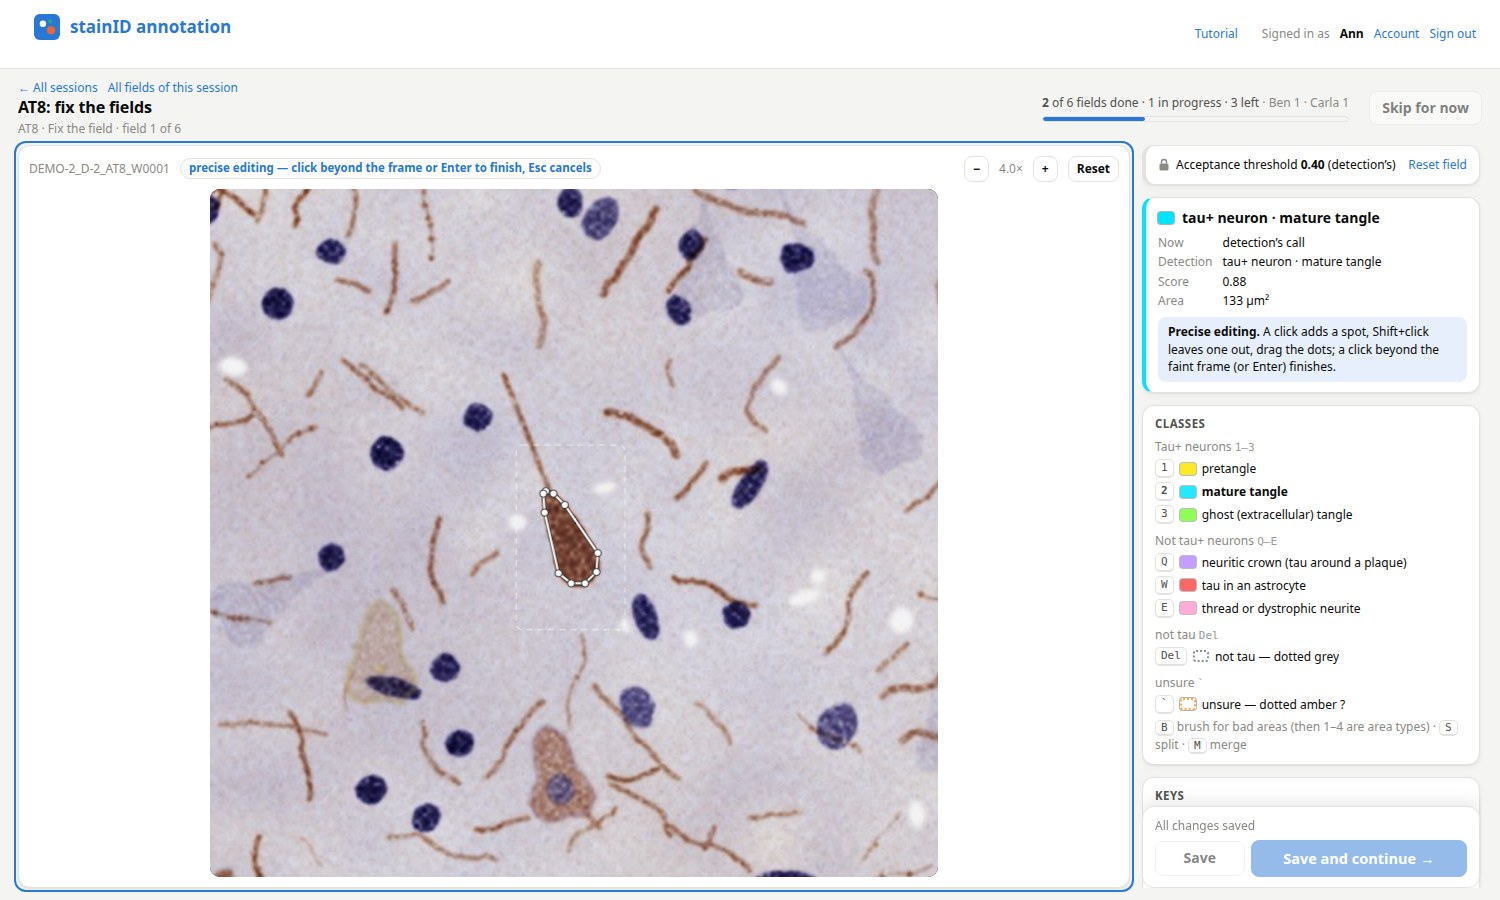
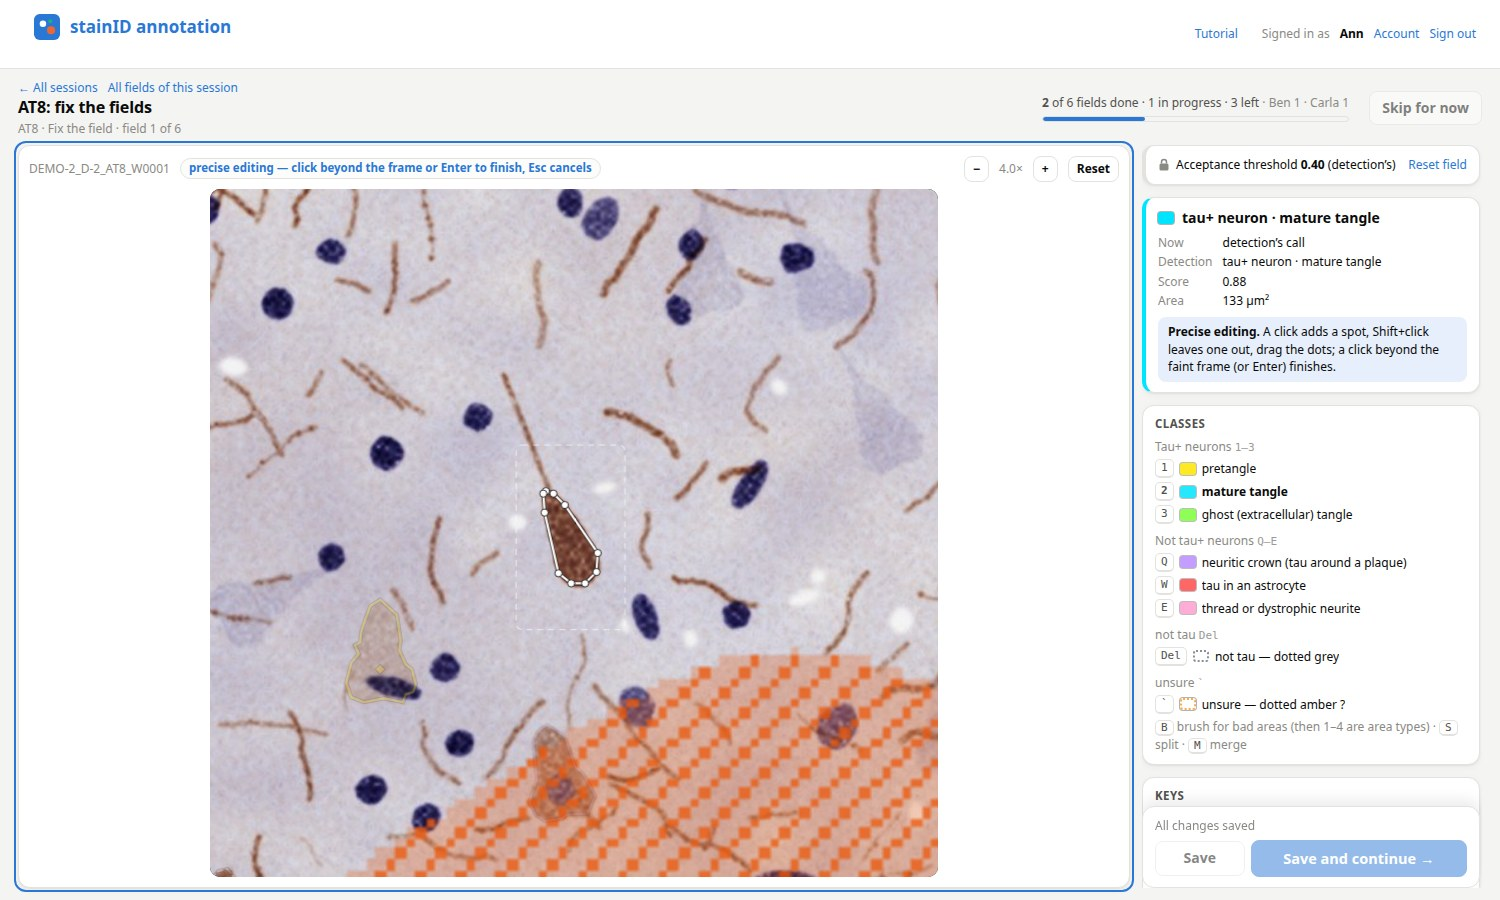
Demo: detected areas in the stage-2 mask format (tiles, tissue, a synthetic fold and a tear on some core images); excluded-shading screenshot
make_demo_project.area_masks writes <outputs.v2>/masks/<stain>/<core>.png as stage 2 does (1/8 scale, BITS
flags, read by stainid.exclusions.automatic): the tile squares, the tissue as the tiling finds it, and on the
screenshot and tutorial cores plus about a quarter of the others a fold band and a region with no tissue.
viewer-excluded.jpg shows them on the Cores view; the other screenshots are retaken with them.

Changed region(s): [[0.2147, 0.7156, 0.644, 0.9956]]

diff --git a/tools/demo/make_demo_project.py b/tools/demo/make_demo_project.py
@@ -12,7 +12,8 @@ The cheap stainid steps run for real on the demo: stain calibration, model train
 
 The v2 detection is written as if its stages had run: a candidate store per core image and stain (every candidate the
 simulated detector saw, accepted and rejected, with three outline sizes standing in for the Segment Anything masks; the
-objects it missed are left for people to add), stage manifests with the digests the stages would record (so the Run
+objects it missed are left for people to add), the stage-2 masks (the tiles, the tissue, and on some core images a
+synthetic fold and a region with no tissue: detection's excluded areas), stage manifests with the digests the stages would record (so the Run
 page shows every v2 stage done and up to date), the v2 results tables and finished runs of each step in the job store.
 On that store sit an AT8 "Fix the field" session and a "Mark bad areas" session over every core, with Ann's saved work on a field
 she has not finished, fields finished by Ben and Carla, and the tutorial done by the three of them (so a new name gets
@@ -669,6 +670,69 @@ def candidate_store_outputs(project, drawn: dict, rng: np.random.Generator) -> d
     return out
 
 
+AREA_CORES = {  # core images always given detected areas (the screenshots' and the tutorial's): (fold, no tissue) in core px
+    "DEMO-2_D-2": (((1500, 2500), (2500, 1950), (3300, 1450)), (900, 3500)),
+    "DEMO-1_A-1": (((1200, 1700), (2200, 2300), (3300, 2600)), (3300, 3400)),
+}
+AREA_SHARE = 0.25  # of the other core images, about this share get a fold and a no-tissue region at random
+FOLD_UM, HOLE_UM = 130.0, 420.0  # the fold band's width, the no-tissue region's diameter
+
+
+def area_masks(project, rng: np.random.Generator) -> int:
+    """Detection's own areas, as stage 2 writes them (`stainid.v2.proposals.write_core`: `<outputs.v2>/masks/<stain>/
+    <core_id>.png`, 1/`MASK_SCALE` of the core image, bit flags `BITS`, read by `stainid.exclusions.automatic`): the
+    tiles (`tile`), the tissue found as the tiling finds it (`tissue`, `qc.core_qc.tissue_mask`), and on some core images
+    a synthetic fold (a band, `fold`: excluded in 6E10 and AT8; NeuN counts folded tissue) and a region with no tissue
+    (the tissue bit cleared: a tear). Returns how many core images got areas."""
+    from PIL import Image
+
+    from stainid.imaging.core_images import read_bgr
+    from stainid.qc.core_qc import tissue_mask
+    from stainid.v2.proposals import BITS, MASK_SCALE
+    from stainid.v2.run import groups
+
+    root = project.output("v2") / "masks"
+    made = 0
+    for (core_id, stain), group in sorted(groups(project, STAINS).items()):  # every whole-core tile, as stage 2 reads them
+        path = project.root / str(group[0]["image_path"])
+        with Image.open(path) as image:
+            width, height = image.size
+        shape = ((height + MASK_SCALE - 1) // MASK_SCALE, (width + MASK_SCALE - 1) // MASK_SCALE)
+        bgr = read_bgr(path, cv2.IMREAD_REDUCED_COLOR_8)
+        tissue = tissue_mask(cv2.cvtColor(bgr, cv2.COLOR_BGR2RGB))[0].astype(np.uint8)
+        tissue = cv2.resize(tissue, (shape[1], shape[0]), interpolation=cv2.INTER_NEAREST) > 0
+        bits = np.zeros(shape, np.uint8)
+        for t in group:  # each tile's own square
+            y0, x0 = int(t["y_px"]) // MASK_SCALE, int(t["x_px"]) // MASK_SCALE
+            bits[y0: y0 + int(t["height_px"]) // MASK_SCALE, x0: x0 + int(t["width_px"]) // MASK_SCALE] |= BITS["tile"]
+        bits[tissue] |= BITS["tissue"]
+        chosen = AREA_CORES.get(str(core_id))
+        if chosen is None and rng.random() < AREA_SHARE and tissue.any():
+            ys, xs = np.nonzero(tissue)
+            centre = np.array([xs.mean(), ys.mean()]) * MASK_SCALE
+            spread = 0.25 * np.array([np.ptp(xs), np.ptp(ys)]) * MASK_SCALE
+            mid = centre + rng.uniform(-1, 1, 2) * spread
+            angle = rng.uniform(0, np.pi)
+            step = np.array([np.cos(angle), np.sin(angle)]) * rng.uniform(700, 1100)
+            bend = np.array([-step[1], step[0]]) * rng.uniform(-0.25, 0.25)
+            fold = (tuple(mid - step), tuple(mid + bend), tuple(mid + step))
+            chosen = (fold, tuple(centre + rng.uniform(-1, 1, 2) * spread))
+        if chosen is not None:
+            fold, hole = chosen
+            band = np.zeros(shape, np.uint8)
+            cv2.polylines(band, [np.round(np.asarray(fold) / MASK_SCALE).astype(np.int32)], False, 1,
+                          thickness=max(1, int(round(FOLD_UM / PIXEL_UM / MASK_SCALE))))
+            bits[(band > 0) & tissue] |= BITS["fold"]
+            torn = np.zeros(shape, np.uint8)
+            cv2.ellipse(torn, (int(hole[0] / MASK_SCALE), int(hole[1] / MASK_SCALE)),
+                        (int(HOLE_UM / PIXEL_UM / MASK_SCALE / 2), int(0.7 * HOLE_UM / PIXEL_UM / MASK_SCALE / 2)), 30, 0, 360, 1, -1)
+            bits[torn > 0] &= ~np.uint8(BITS["tissue"])
+            made += 1
+        (root / stain).mkdir(parents=True, exist_ok=True)
+        cv2.imwrite(str(root / stain / f"{core_id}.png"), bits)
+    return made
+
+
 def v2_manifests(project, counts: dict[tuple[str, str], int]) -> None:
     """Stage manifests with the digests the stages would record now (as `stainid.v2.run.status` works them out), so every
     v2 stage shows as done and up to date; and the v2 results tables (the same as the current ones: the demo has one
@@ -921,6 +985,7 @@ def build(out: Path, seed: int, workers: int) -> None:
     print("v2 detection: candidate store, stage manifests and results tables", flush=True)
     project = load_project(root)
     counts = candidate_store_outputs(project, drawn, rng)
+    area_masks(project, rng)
     v2_manifests(project, counts)
     job_records(project, cores, len(whole), models_at)
     print("annotation rounds", flush=True)

diff --git a/tools/demo/screenshots.py b/tools/demo/screenshots.py
@@ -18,6 +18,8 @@ sessions; random passwords, kept nowhere), opens each page of the project the se
 - projects.png, home.png, workflow.png (the Run page with its flow chart), models.png, labels.png, results.png,
   settings.png;
 - viewer.jpg: the Cores view of the AD core with the most tau+ neurons near its centre;
+- viewer-excluded.jpg: the Cores view of the core of Ann's field (whole) with what the analysis leaves out shaded (detection's areas from
+  the stage-2 mask: the demo's synthetic fold and the parts with no tissue), hatched by type;
 - viewer-annotations.jpg: the Cores view of the core of Ann's field with the Annotations layer on (where people's labels
   differ from detection), the excluded areas shaded and the minimap with each tile's review status;
 - annotate.jpg: "Fix the field" on the field the demo's Ann has started (her changes: classes in their colours, removed
@@ -46,6 +48,7 @@ SHOTS = {  # name: (path in the project, or None when chosen from the data, view
     "home.png": ("/", 1500, 911),
     "models.png": ("/models", 1500, 911),
     "viewer.jpg": (None, 1500, 1000),
+    "viewer-excluded.jpg": (None, 1500, 1000),
     "viewer-annotations.jpg": (None, 1500, 1000),
     "labels.png": ("/labels", 1400, 900),
     "annotate.jpg": (None, 1500, 900),
@@ -237,7 +240,7 @@ def main() -> None:
                 path = viewer_target(page, api, args.stain)
             if name.startswith("annotate"):
                 path = f"/annotate/{rounds['fix']}/{rounds['ann_field']}"
-            if name == "viewer-annotations.jpg":
+            if name in ("viewer-annotations.jpg", "viewer-excluded.jpg"):
                 path = f"/cores/{rounds['ann_field'].rsplit('_', 2)[0]}?stain={rounds['ann_field'].rsplit('_', 2)[1]}"
             if name == "areas.jpg":
                 if not rounds.get("areas"):
@@ -284,6 +287,10 @@ def main() -> None:
                     for x, y, _ in sorted(objects_near_centre(page, 2)):
                         page.mouse.click(x, y)
                         time.sleep(0.4)
+            if name == "viewer-excluded.jpg":  # only what the analysis leaves out, over what detection found
+                page.locator("label.layer-toggle", has_text="Annotations").first.locator("input").uncheck()
+                page.locator("label.layer-toggle", has_text="Excluded from analysis").first.locator("input").check()
+                settle(page, 2.0)
             if name == "viewer-annotations.jpg":
                 page.locator("label.layer-toggle", has_text="Annotations").first.locator("input").check()
                 settle(page, 2.0)

diff --git a/README.md b/README.md
@@ -219,6 +219,8 @@ All screenshots show a synthetic demo project: the tissue images, donors, labels
 | **Home**: your next step and overall progress | **Models**: download published models; train from labels, compare, switch; how detection's outlines match people's fixes |
 | ![Core viewer](docs/images/viewer.jpg) | ![Labels](docs/images/labels.png) |
 | **Cores**: the whole core, zoomable, with every candidate drawn on it (rejected ones dotted grey), the minimap, the excluded areas and the Annotations layer | **Labels**: annotation rounds with their progress, agreement with detection, the link to share and *Try the tutorial* |
+| ![Excluded from analysis](docs/images/viewer-excluded.jpg) | |
+| **Excluded from analysis** on the Cores view: detection's own bad areas from its stage-2 mask, hatched by type (here the demo's synthetic fold, a tear with no tissue and the glass around the core), with each type's share; only these leave objects out of the analysis | |
 | ![Results](docs/images/results.png) | ![Projects](docs/images/projects.png) |
 | **Results**: download the main table, what every column means, plots by group | **Projects**: every study with its status; new study, open a folder, switch |
 | ![Settings](docs/images/settings.png) | |
